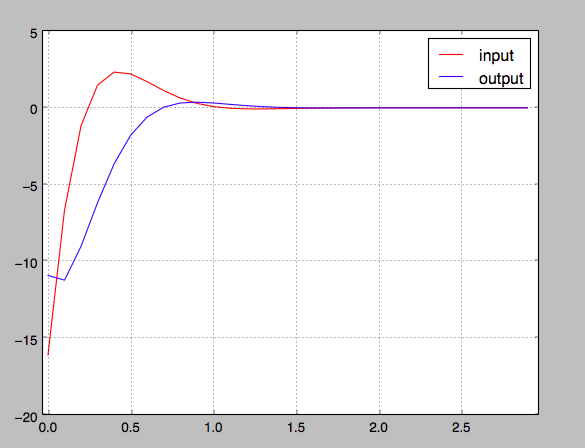
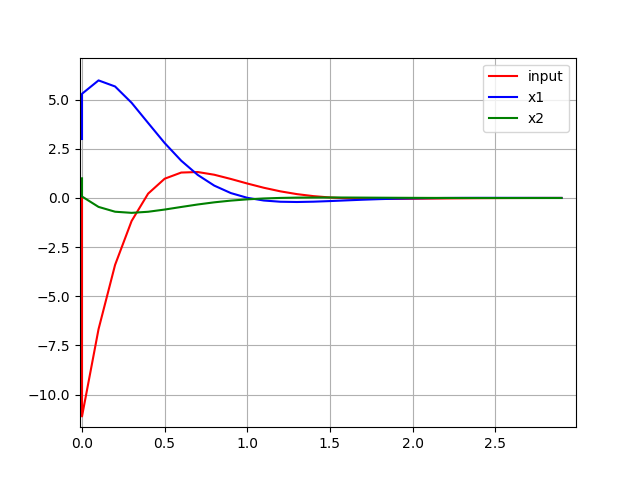
add arimoto potter LQR

diff --git a/lqr_sample/main.py b/lqr_sample/main.py
@@ -4,6 +4,7 @@ Linear-Quadratic Regulator sample code
 author Atsushi Sakai
 """
 
+import time
 import matplotlib.pyplot as plt
 import numpy as np
 import scipy.linalg as la
@@ -22,7 +23,7 @@ def process(x, u):
     return (x)
 
 
-def solve_DARE(A, B, Q, R):
+def solve_DARE_with_iteration(A, B, Q, R):
     """
     solve a discrete time_Algebraic Riccati equation (DARE)
     """
@@ -41,7 +42,7 @@ def solve_DARE(A, B, Q, R):
     return Xn
 
 
-def dlqr(A, B, Q, R):
+def dlqr_with_iteration(A, B, Q, R):
     """Solve the discrete time lqr controller.
     x[k+1] = A x[k] + B u[k]
     cost = sum x[k].T*Q*x[k] + u[k].T*R*u[k]
@@ -49,7 +50,7 @@ def dlqr(A, B, Q, R):
     """
 
     # first, try to solve the ricatti equation
-    X = solve_DARE(A, B, Q, R)
+    X = solve_DARE_with_iteration(A, B, Q, R)
 
     # compute the LQR gain
     K = np.matrix(la.inv(B.T * X * B + R) * (B.T * X * A))
@@ -59,17 +60,58 @@ def dlqr(A, B, Q, R):
     return K, X, eigVals
 
 
+def dlqr_with_arimoto_potter(A, B, Q, R):
+
+    n = len(B)
+
+    # continuous
+    A = (A - np.eye(n)) / dt
+    B = B / dt
+
+    Ham = np.vstack(
+        (np.hstack((A, - B * la.inv(R) * B.T)),
+            np.hstack((-Q, -A.T))))
+
+    eigVals, eigVecs = la.eig(Ham)
+
+    V1 = None
+    V2 = None
+
+    for i in range(2 * n):
+        if eigVals[i].real < 0:
+            if V1 is None:
+                V1 = eigVecs[0:n, i]
+                V2 = eigVecs[n:2 * n, i]
+            else:
+                V1 = np.vstack((V1, eigVecs[0:n, i]))
+                V2 = np.vstack((V2, eigVecs[n:2 * n, i]))
+    V1 = np.matrix(V1.T)
+    V2 = np.matrix(V2.T)
+
+    P = (V2 * la.inv(V1)).real
+
+    K = la.inv(R) * B.T * P
+
+    return K
+
+
 def lqr_control(x):
     global Kopt
     if Kopt is None:
-        Kopt, X, ev = dlqr(A, B, np.eye(2), np.eye(1))
+        start = time.time()
+        #  Kopt, X, ev = dlqr_with_iteration(A, B, np.eye(2), np.eye(1))
+        Kopt = dlqr_with_arimoto_potter(A, B, np.eye(2), np.eye(1))
+        #  print(Kopt)
+
+        elapsed_time = time.time() - start
+        print("elapsed_time:{0}".format(elapsed_time) + "[sec]")
 
     u = -Kopt * x
     return u
 
 
 def main():
-    time = 0.0
+    t = 0.0
 
     x = np.matrix([3, 1]).T
     u = np.matrix([0])
@@ -79,8 +121,9 @@ def main():
     x2_history = [x[1, 0]]
     u_history = [0.0]
 
-    while time <= simTime:
+    while t <= simTime:
         u = lqr_control(x)
+
         u0 = float(u[0, 0])
         x = process(x, u0)
 
@@ -88,8 +131,8 @@ def main():
         x2_history.append(x[1, 0])
 
         u_history.append(u0)
-        time_history.append(time)
-        time += dt
+        time_history.append(t)
+        t += dt
 
     plt.plot(time_history, u_history, "-r", label="input")
     plt.plot(time_history, x1_history, "-b", label="x1")
